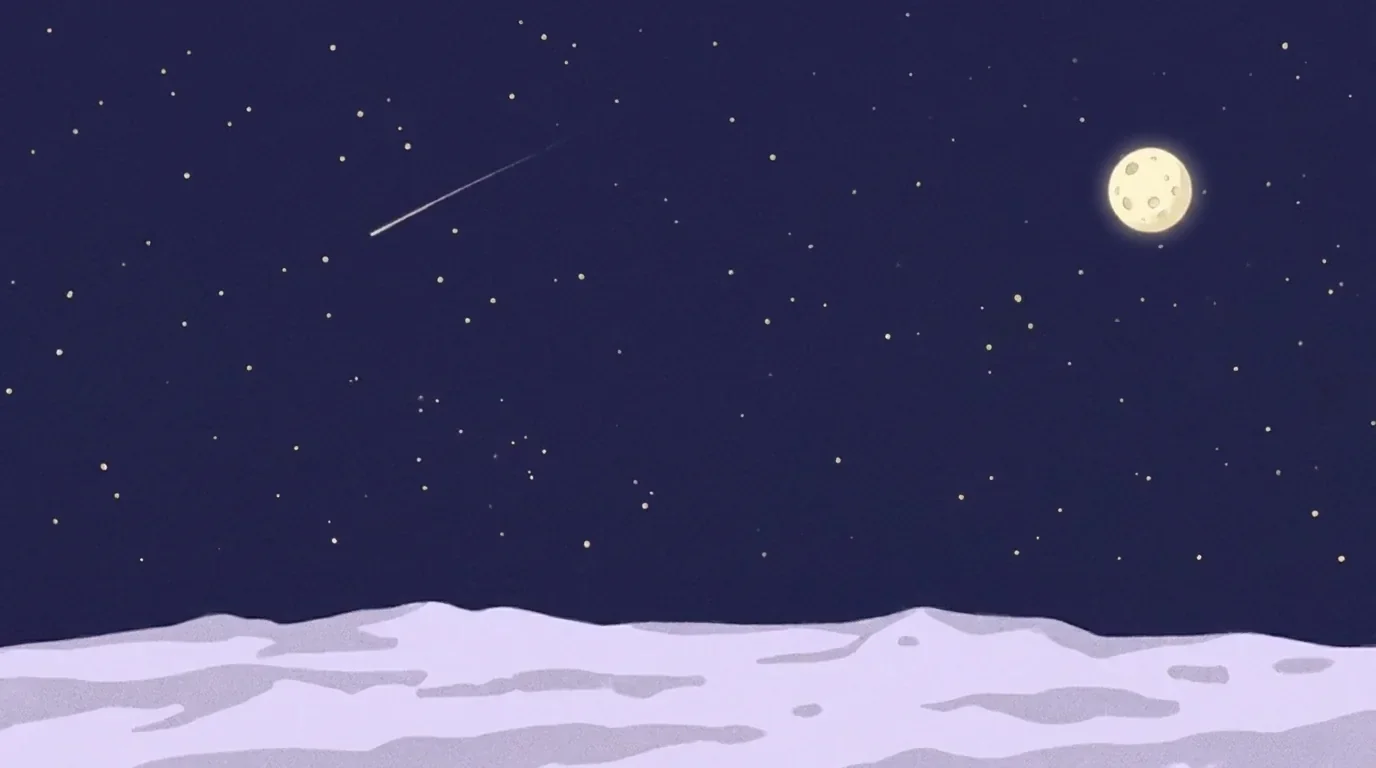
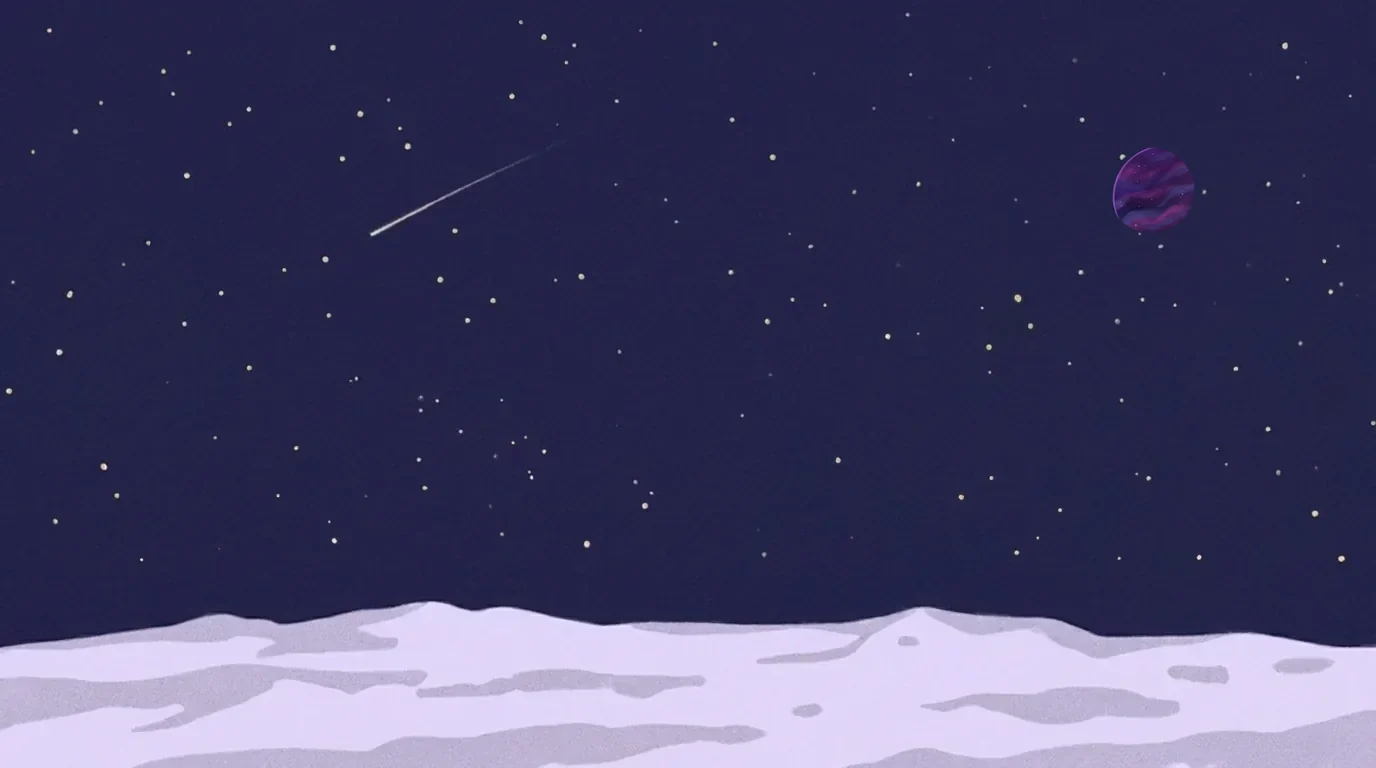
change: 운세 행성을 보름달에서 보랏빛 신비 행성으로 교체 — 미니 놀이터가 보름달로 바뀌면서 두 페이지가 같아진 문제 해결. AI 포토에딧으로 자줏빛 성운 무늬와 별 알갱이가 있는 원반을 새로 그려 표준 규격(중심 1151,190·반경 42)으로 정규화하고, 발광·고리·CLICK 글자 색을 보라 계열로 맞춤(글자는 어두운 행성에 맞춰 밝은 색+진보라 외곽선으로 반전)

Changed region(s): [[0.7812, 0.1562, 0.875, 0.3125]]

diff --git a/play/fortune-hub.html b/play/fortune-hub.html
@@ -50,7 +50,7 @@
       main { padding-top: 90px; }
     }
     /* 행성 실루엣에서 만든 빛 — 행성 바로 바깥이 그 모양대로 빛난다 */
-    :root { --plc: 255, 243, 207; }
+    :root { --plc: 214, 166, 255; }
     .pl-hot { position: fixed; z-index: 40; border-radius: 50%; cursor: pointer; }
     .pl-ring { position: fixed; z-index: 3; pointer-events: none;
       background: url("../design/img/glow-fortune.png") center / 100% 100% no-repeat;
@@ -190,7 +190,7 @@
       var ring = document.createElement("div"); ring.className = "pl-ring";
       document.body.appendChild(ring);
       var clk = document.createElement("div");
-      clk.innerHTML = '<svg class="pl-click" viewBox="0 0 156 156" aria-hidden="true"><defs><path id="plRingFront" d="M 6,78 A 72,24 0 0 0 150,78" /><mask id="plBehind"><rect x="-40" y="-40" width="236" height="236" fill="#fff" /><circle cx="78" cy="78" r="43" fill="#000" /></mask><filter id="plRingGlow" x="-50%" y="-50%" width="200%" height="200%"><feDropShadow dx="0" dy="0" stdDeviation="2.2" flood-color="#fff6dc" flood-opacity=".85" /></filter></defs><g transform="rotate(-16 78 78)" filter="url(#plRingGlow)"><path d="M 6,78 A 72,24 0 0 1 150,78" fill="none" stroke="#fff6dc" stroke-width="4.5" stroke-linecap="round" mask="url(#plBehind)" opacity=".9" /><path d="M 6,78 A 72,24 0 0 0 150,78" fill="none" stroke="#fff6dc" stroke-width="5" stroke-linecap="round" stroke-dasharray="31 98" /><text fill="#5a4326" font-family="Jua, sans-serif" font-size="30" letter-spacing="1.5" font-weight="700" stroke="#fff8e4" stroke-width="1.1" paint-order="stroke"><textPath href="#plRingFront" startOffset="50%" text-anchor="middle" dominant-baseline="middle">CLICK</textPath></text></g></svg>';
+      clk.innerHTML = '<svg class="pl-click" viewBox="0 0 156 156" aria-hidden="true"><defs><path id="plRingFront" d="M 6,78 A 72,24 0 0 0 150,78" /><mask id="plBehind"><rect x="-40" y="-40" width="236" height="236" fill="#fff" /><circle cx="78" cy="78" r="43" fill="#000" /></mask><filter id="plRingGlow" x="-50%" y="-50%" width="200%" height="200%"><feDropShadow dx="0" dy="0" stdDeviation="2.2" flood-color="#e6c8ff" flood-opacity=".85" /></filter></defs><g transform="rotate(-16 78 78)" filter="url(#plRingGlow)"><path d="M 6,78 A 72,24 0 0 1 150,78" fill="none" stroke="#e6c8ff" stroke-width="4.5" stroke-linecap="round" mask="url(#plBehind)" opacity=".9" /><path d="M 6,78 A 72,24 0 0 0 150,78" fill="none" stroke="#e6c8ff" stroke-width="5" stroke-linecap="round" stroke-dasharray="31 98" /><text fill="#fdf3ff" font-family="Jua, sans-serif" font-size="30" letter-spacing="1.5" font-weight="700" stroke="#3a1a52" stroke-width="1.1" paint-order="stroke"><textPath href="#plRingFront" startOffset="50%" text-anchor="middle" dominant-baseline="middle">CLICK</textPath></text></g></svg>';
       clk = clk.firstElementChild;
       document.body.appendChild(clk);
       document.body.appendChild(hot); document.body.appendChild(menu);
